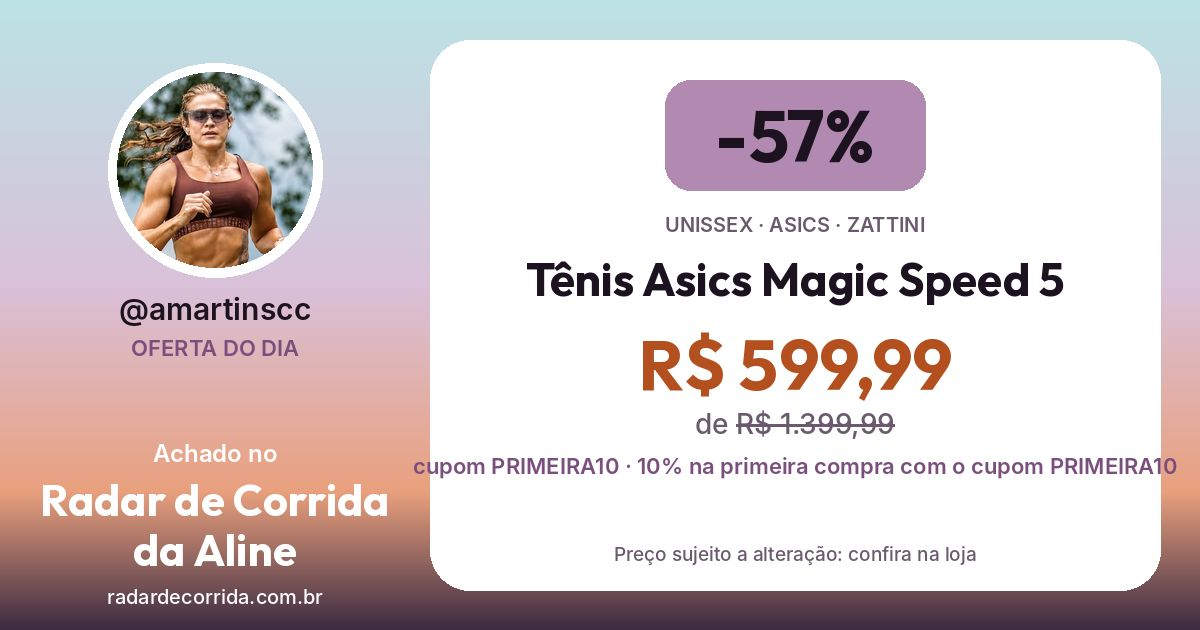
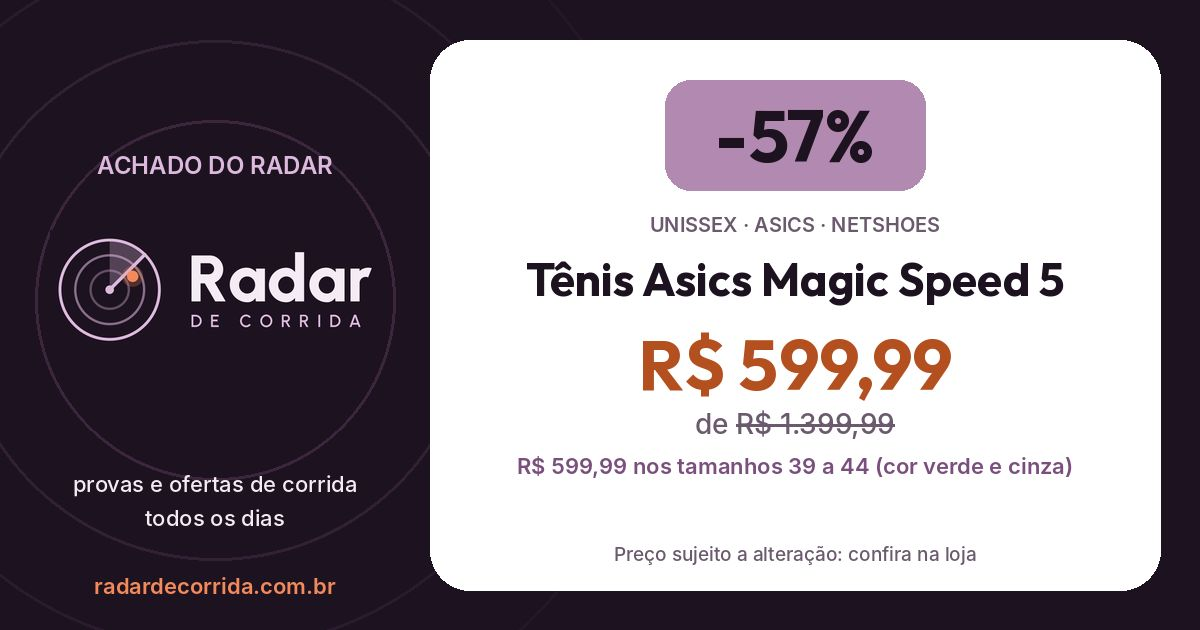
Atualiza achados 2026-11-27 13h47 + achado relâmpago Asics Magic Speed 5

diff --git a/tenis/asics-tenis-asics-magic-speed-5-unissex/index.html b/tenis/asics-tenis-asics-magic-speed-5-unissex/index.html
@@ -4,14 +4,14 @@
 <meta charset="utf-8">
 <meta name="viewport" content="width=device-width,initial-scale=1">
 <title>Tênis Asics Magic Speed 5 por R$ 599,99 (-57%) · Radar de Corrida</title>
-<meta name="description" content="Unissex · de R$ 1.399,99 por R$ 599,99 na Zattini (cupom PRIMEIRA10 · 10% na primeira compra com o cupom PRIMEIRA10). Achado no Radar de Corrida da Aline.">
+<meta name="description" content="Unissex · de R$ 1.399,99 por R$ 599,99 na Netshoes (R$ 599,99 nos tamanhos 39 a 44 (cor verde e cinza)). Achado no Radar de Corrida da Aline.">
 <meta name="robots" content="noindex,follow">
 <link rel="canonical" href="https://radardecorrida.com.br/tenis/asics-tenis-asics-magic-speed-5-unissex/">
 <meta property="og:type" content="website">
 <meta property="og:locale" content="pt_BR">
 <meta property="og:site_name" content="Radar de Corrida da Aline">
 <meta property="og:title" content="Tênis Asics Magic Speed 5 por R$ 599,99 (-57%)">
-<meta property="og:description" content="Unissex · de R$ 1.399,99 por R$ 599,99 na Zattini (cupom PRIMEIRA10 · 10% na primeira compra com o cupom PRIMEIRA10). Achado no Radar de Corrida da Aline.">
+<meta property="og:description" content="Unissex · de R$ 1.399,99 por R$ 599,99 na Netshoes (R$ 599,99 nos tamanhos 39 a 44 (cor verde e cinza)). Achado no Radar de Corrida da Aline.">
 <meta property="og:url" content="https://radardecorrida.com.br/tenis/asics-tenis-asics-magic-speed-5-unissex/">
 <meta property="og:image" content="https://radardecorrida.com.br/og/tenis-asics-tenis-asics-magic-speed-5-unissex.jpg">
 <meta property="og:image:secure_url" content="https://radardecorrida.com.br/og/tenis-asics-tenis-asics-magic-speed-5-unissex.jpg">
@@ -24,16 +24,16 @@
 <link rel="icon" type="image/png" href="/favicon.png">
 <style>*{box-sizing:border-box}body{margin:0;font-family:"Plus Jakarta Sans",system-ui,-apple-system,"Segoe UI",sans-serif;background:#F6F0F6 linear-gradient(180deg,#BBE3E5 0,#D9C1D9 360px,#F6F0F6 720px) no-repeat;color:#1D1220;padding:24px 16px 40px}.c{max-width:560px;margin:0 auto;display:flex;flex-direction:column;gap:14px}img{width:100%;height:auto;border-radius:18px;display:block}h1{font:800 28px/1.1 system-ui,sans-serif;margin:0}p{margin:0;color:#6B5A6E}a.b{display:block;text-align:center;padding:13px 18px;border-radius:999px;text-decoration:none;font-weight:700}a.p{background:#B28AB1;color:#1D1220}a.s{background:#fff;color:#7A4E7D;border:1.5px solid #B28AB1}.x{text-align:center;font-size:14px}.x a{color:#7A4E7D}.n{background:#FFF0DC;color:#9A5B00;padding:10px 14px;border-radius:14px;font-weight:600}</style>
 
-
+<script>if(/[?&]c=1(&|$)/.test(location.search))location.replace("/"+location.search+"#tenis=asics-tenis-asics-magic-speed-5-unissex");</script>
 </head>
 <body>
 <main class="c">
-<p class="n">Essa oferta não está mais no radar. Veja as ofertas de hoje.</p>
+
 <img src="/og/tenis-asics-tenis-asics-magic-speed-5-unissex.jpg" alt="Tênis Asics Magic Speed 5 por R$ 599,99 (-57%)" width="1200" height="630">
 <h1>Tênis Asics Magic Speed 5 por R$ 599,99 (-57%)</h1>
-<p>Unissex · de R$ 1.399,99 por R$ 599,99 na Zattini (cupom PRIMEIRA10 · 10% na primeira compra com o cupom PRIMEIRA10). Achado no Radar de Corrida da Aline.</p>
-<a class="b p" href="/#tenis">Ver no Radar de Corrida da Aline</a>
-
+<p>Unissex · de R$ 1.399,99 por R$ 599,99 na Netshoes (R$ 599,99 nos tamanhos 39 a 44 (cor verde e cinza)). Achado no Radar de Corrida da Aline.</p>
+<a class="b p" href="/#tenis=asics-tenis-asics-magic-speed-5-unissex">Ver no Radar de Corrida da Aline</a>
+<a class="b s" href="https://click.linksynergy.com/deeplink?id=7KhHq5G3aIo&amp;mid=43984&amp;murl=https%3A%2F%2Fwww.netshoes.com.br%2Fp%2Ftenis-asics-magic-speed-5-SG4-01QO-430" target="_blank" rel="noopener">Ver na loja</a>
 <p class="x"><a href="/calculadora-de-pace/">Calcule seu pace e a previsão de tempo para a prova</a></p>
 </main>
 </body>

diff --git a/index.html b/index.html
@@ -1003,9 +1003,6 @@ section h2{font:800 22px/1 var(--display);margin:8px 0 10px}
    "link": "https://www.decathlon.com.br/tenis-adulto-de-corrida-corre-turbo-preto-9026071-olympikus/p",
    "categoria": "Tênis",
    "genero": "Unissex",
-   "cupom": "CORRE15",
-   "preco_final": 424.99,
-   "condicao": "15% off em Olympikus com o cupom CORRE15",
    "foto": "https://decathlonstore.vtexassets.com/arquivos/ids/178847764/tenis-adulto-de-corrida-corre-turbo-olympikus-preto.jpg",
    "modalidade": "Corrida"
   },
@@ -3041,9 +3038,6 @@ section h2{font:800 22px/1 var(--display);margin:8px 0 10px}
    "link": "https://www.decathlon.com.br/tenis-feminino-de-corrida-sonicblast-cinza-9016059-asics/p",
    "categoria": "Tênis",
    "genero": "Feminino",
-   "cupom": "10OFFNOPIX",
-   "preco_final": 539.99,
-   "condicao": "10% off pagando no Pix com o cupom 10OFFNOPIX",
    "foto": "https://decathlonpro.vteximg.com.br/arquivos/ids/174209820/tenis-feminino-corrida-sonicblast-asics---preto---35-br1.jpg",
    "black": true,
    "modalidade": "Corrida"
@@ -3057,9 +3051,6 @@ section h2{font:800 22px/1 var(--display);margin:8px 0 10px}
    "link": "https://www.decathlon.com.br/tenis-asics-sonicblast---masculino---verde-preto-2145997394/p",
    "categoria": "Tênis",
    "genero": "Masculino",
-   "cupom": "10OFFNOPIX",
-   "preco_final": 539.99,
-   "condicao": "10% off pagando no Pix com o cupom 10OFFNOPIX",
    "foto": "https://decathlonpro.vteximg.com.br/arquivos/ids/180731203/17872335343639.jpg",
    "black": true,
    "modalidade": "Corrida"
@@ -3174,6 +3165,19 @@ section h2{font:800 22px/1 var(--display);margin:8px 0 10px}
    ]
   },
   {
+   "loja": "Netshoes",
+   "nome": "Tênis Asics Magic Speed 5",
+   "marca": "Asics",
+   "preco": 599.99,
+   "de": 1399.99,
+   "link": "https://www.netshoes.com.br/p/tenis-asics-magic-speed-5-SG4-01QO-430",
+   "categoria": "Tênis",
+   "genero": "Unissex",
+   "condicao": "R$ 599,99 nos tamanhos 39 a 44 (cor verde e cinza)",
+   "foto": "https://static.netshoes.com.br/produtos/tenis-asics-magic-speed-5/30/SG4-01QO-430/SG4-01QO-430_detalhe1.jpg",
+   "modalidade": "Corrida"
+  },
+  {
    "loja": "Amazon",
    "nome": "Tênis Olympikus Corre Grafeno 3",
    "marca": "Olympikus",
@@ -3212,19 +3216,6 @@ section h2{font:800 22px/1 var(--display);margin:8px 0 10px}
    "cupom": "10OFFNOPIX",
    "condicao": "10% off pagando no Pix com o cupom 10OFFNOPIX",
    "preco_final": 539.99
-  },
-  {
-   "loja": "Decathlon",
-   "nome": "Tênis New Balance FuelCell SuperComp Elite V4 Masculino",
-   "marca": "New Balance",
-   "preco": 799.99,
-   "de": 1999.99,
-   "link": "https://www.decathlon.com.br/tenis-masculino-de-corrida-supercomp-elite-v4-bege-8682710-new-balance/p",
-   "categoria": "Tênis",
-   "genero": "Masculino",
-   "foto": "https://decathlonstore.vtexassets.com/arquivos/ids/166091617/-tn-nb-supercomp-elite-v4-uk-11---eu-46-bege-39-br1.jpg",
-   "black": true,
-   "modalidade": "Corrida"
   },
   {
    "loja": "Decathlon",
@@ -17781,7 +17772,7 @@ section h2{font:800 22px/1 var(--display);margin:8px 0 10px}
    }
   ]
  },
- "ofertas_atualizado": "2026-11-27T08:52:33-03:00",
+ "ofertas_atualizado": "2026-11-27T13:43:02-03:00",
  "treino_em_breve": true,
  "destaques": [
   {

diff --git a/tenis/asics-tenis-asics-sonicblast-masculino-masculino/index.html b/tenis/asics-tenis-asics-sonicblast-masculino-masculino/index.html
@@ -4,14 +4,14 @@
 <meta charset="utf-8">
 <meta name="viewport" content="width=device-width,initial-scale=1">
 <title>Tênis Asics Sonicblast Masculino por R$ 599,99 (-60%) · Radar de Corrida</title>
-<meta name="description" content="Masculino · de R$ 1.499,99 por R$ 599,99 na Decathlon (cupom 10OFFNOPIX · 10% off pagando no Pix com o cupom 10OFFNOPIX). Achado no Radar de Corrida da Aline.">
+<meta name="description" content="Masculino · de R$ 1.499,99 por R$ 599,99 na Decathlon. Achado no Radar de Corrida da Aline.">
 <meta name="robots" content="noindex,follow">
 <link rel="canonical" href="https://radardecorrida.com.br/tenis/asics-tenis-asics-sonicblast-masculino-masculino/">
 <meta property="og:type" content="website">
 <meta property="og:locale" content="pt_BR">
 <meta property="og:site_name" content="Radar de Corrida da Aline">
 <meta property="og:title" content="Tênis Asics Sonicblast Masculino por R$ 599,99 (-60%)">
-<meta property="og:description" content="Masculino · de R$ 1.499,99 por R$ 599,99 na Decathlon (cupom 10OFFNOPIX · 10% off pagando no Pix com o cupom 10OFFNOPIX). Achado no Radar de Corrida da Aline.">
+<meta property="og:description" content="Masculino · de R$ 1.499,99 por R$ 599,99 na Decathlon. Achado no Radar de Corrida da Aline.">
 <meta property="og:url" content="https://radardecorrida.com.br/tenis/asics-tenis-asics-sonicblast-masculino-masculino/">
 <meta property="og:image" content="https://radardecorrida.com.br/og/tenis-asics-tenis-asics-sonicblast-masculino-masculino.jpg">
 <meta property="og:image:secure_url" content="https://radardecorrida.com.br/og/tenis-asics-tenis-asics-sonicblast-masculino-masculino.jpg">
@@ -31,7 +31,7 @@
 
 <img src="/og/tenis-asics-tenis-asics-sonicblast-masculino-masculino.jpg" alt="Tênis Asics Sonicblast Masculino por R$ 599,99 (-60%)" width="1200" height="630">
 <h1>Tênis Asics Sonicblast Masculino por R$ 599,99 (-60%)</h1>
-<p>Masculino · de R$ 1.499,99 por R$ 599,99 na Decathlon (cupom 10OFFNOPIX · 10% off pagando no Pix com o cupom 10OFFNOPIX). Achado no Radar de Corrida da Aline.</p>
+<p>Masculino · de R$ 1.499,99 por R$ 599,99 na Decathlon. Achado no Radar de Corrida da Aline.</p>
 <a class="b p" href="/#tenis=asics-tenis-asics-sonicblast-masculino-masculino">Ver no Radar de Corrida da Aline</a>
 <a class="b s" href="https://www.awin1.com/cread.php?awinmid=19296&amp;awinaffid=3132864&amp;ued=https%3A%2F%2Fwww.decathlon.com.br%2Ftenis-asics-sonicblast---masculino---verde-preto-2145997394%2Fp&amp;platform=ma&amp;clickref=pagina-produto&amp;clickref2=produto" target="_blank" rel="noopener">Ver na loja</a>
 <p class="x"><a href="/calculadora-de-pace/">Calcule seu pace e a previsão de tempo para a prova</a></p>

diff --git a/tenis/asics-tenis-asics-sonicblast-feminino-feminino/index.html b/tenis/asics-tenis-asics-sonicblast-feminino-feminino/index.html
@@ -4,14 +4,14 @@
 <meta charset="utf-8">
 <meta name="viewport" content="width=device-width,initial-scale=1">
 <title>Tênis Asics Sonicblast Feminino por R$ 599,99 (-60%) · Radar de Corrida</title>
-<meta name="description" content="Feminino · de R$ 1.499,99 por R$ 599,99 na Decathlon (cupom 10OFFNOPIX · 10% off pagando no Pix com o cupom 10OFFNOPIX). Achado no Radar de Corrida da Aline.">
+<meta name="description" content="Feminino · de R$ 1.499,99 por R$ 599,99 na Decathlon. Achado no Radar de Corrida da Aline.">
 <meta name="robots" content="noindex,follow">
 <link rel="canonical" href="https://radardecorrida.com.br/tenis/asics-tenis-asics-sonicblast-feminino-feminino/">
 <meta property="og:type" content="website">
 <meta property="og:locale" content="pt_BR">
 <meta property="og:site_name" content="Radar de Corrida da Aline">
 <meta property="og:title" content="Tênis Asics Sonicblast Feminino por R$ 599,99 (-60%)">
-<meta property="og:description" content="Feminino · de R$ 1.499,99 por R$ 599,99 na Decathlon (cupom 10OFFNOPIX · 10% off pagando no Pix com o cupom 10OFFNOPIX). Achado no Radar de Corrida da Aline.">
+<meta property="og:description" content="Feminino · de R$ 1.499,99 por R$ 599,99 na Decathlon. Achado no Radar de Corrida da Aline.">
 <meta property="og:url" content="https://radardecorrida.com.br/tenis/asics-tenis-asics-sonicblast-feminino-feminino/">
 <meta property="og:image" content="https://radardecorrida.com.br/og/tenis-asics-tenis-asics-sonicblast-feminino-feminino.jpg">
 <meta property="og:image:secure_url" content="https://radardecorrida.com.br/og/tenis-asics-tenis-asics-sonicblast-feminino-feminino.jpg">
@@ -31,7 +31,7 @@
 
 <img src="/og/tenis-asics-tenis-asics-sonicblast-feminino-feminino.jpg" alt="Tênis Asics Sonicblast Feminino por R$ 599,99 (-60%)" width="1200" height="630">
 <h1>Tênis Asics Sonicblast Feminino por R$ 599,99 (-60%)</h1>
-<p>Feminino · de R$ 1.499,99 por R$ 599,99 na Decathlon (cupom 10OFFNOPIX · 10% off pagando no Pix com o cupom 10OFFNOPIX). Achado no Radar de Corrida da Aline.</p>
+<p>Feminino · de R$ 1.499,99 por R$ 599,99 na Decathlon. Achado no Radar de Corrida da Aline.</p>
 <a class="b p" href="/#tenis=asics-tenis-asics-sonicblast-feminino-feminino">Ver no Radar de Corrida da Aline</a>
 <a class="b s" href="https://www.awin1.com/cread.php?awinmid=19296&amp;awinaffid=3132864&amp;ued=https%3A%2F%2Fwww.decathlon.com.br%2Ftenis-feminino-de-corrida-sonicblast-cinza-9016059-asics%2Fp&amp;platform=ma&amp;clickref=pagina-produto&amp;clickref2=produto" target="_blank" rel="noopener">Ver na loja</a>
 <p class="x"><a href="/calculadora-de-pace/">Calcule seu pace e a previsão de tempo para a prova</a></p>

diff --git a/tenis/olympikus-tenis-olympikus-corre-turbo-unissex/index.html b/tenis/olympikus-tenis-olympikus-corre-turbo-unissex/index.html
@@ -4,14 +4,14 @@
 <meta charset="utf-8">
 <meta name="viewport" content="width=device-width,initial-scale=1">
 <title>Tênis Olympikus Corre Turbo por R$ 499,99 (-29%) · Radar de Corrida</title>
-<meta name="description" content="Unissex · de R$ 699,99 por R$ 499,99 na Decathlon (cupom CORRE15 · 15% off em Olympikus com o cupom CORRE15). Achado no Radar de Corrida da Aline.">
+<meta name="description" content="Unissex · de R$ 699,99 por R$ 499,99 na Decathlon. Achado no Radar de Corrida da Aline.">
 <meta name="robots" content="noindex,follow">
 <link rel="canonical" href="https://radardecorrida.com.br/tenis/olympikus-tenis-olympikus-corre-turbo-unissex/">
 <meta property="og:type" content="website">
 <meta property="og:locale" content="pt_BR">
 <meta property="og:site_name" content="Radar de Corrida da Aline">
 <meta property="og:title" content="Tênis Olympikus Corre Turbo por R$ 499,99 (-29%)">
-<meta property="og:description" content="Unissex · de R$ 699,99 por R$ 499,99 na Decathlon (cupom CORRE15 · 15% off em Olympikus com o cupom CORRE15). Achado no Radar de Corrida da Aline.">
+<meta property="og:description" content="Unissex · de R$ 699,99 por R$ 499,99 na Decathlon. Achado no Radar de Corrida da Aline.">
 <meta property="og:url" content="https://radardecorrida.com.br/tenis/olympikus-tenis-olympikus-corre-turbo-unissex/">
 <meta property="og:image" content="https://radardecorrida.com.br/og/tenis-olympikus-tenis-olympikus-corre-turbo-unissex.jpg">
 <meta property="og:image:secure_url" content="https://radardecorrida.com.br/og/tenis-olympikus-tenis-olympikus-corre-turbo-unissex.jpg">
@@ -31,7 +31,7 @@
 
 <img src="/og/tenis-olympikus-tenis-olympikus-corre-turbo-unissex.jpg" alt="Tênis Olympikus Corre Turbo por R$ 499,99 (-29%)" width="1200" height="630">
 <h1>Tênis Olympikus Corre Turbo por R$ 499,99 (-29%)</h1>
-<p>Unissex · de R$ 699,99 por R$ 499,99 na Decathlon (cupom CORRE15 · 15% off em Olympikus com o cupom CORRE15). Achado no Radar de Corrida da Aline.</p>
+<p>Unissex · de R$ 699,99 por R$ 499,99 na Decathlon. Achado no Radar de Corrida da Aline.</p>
 <a class="b p" href="/#tenis=olympikus-tenis-olympikus-corre-turbo-unissex">Ver no Radar de Corrida da Aline</a>
 <a class="b s" href="https://www.awin1.com/cread.php?awinmid=19296&amp;awinaffid=3132864&amp;ued=https%3A%2F%2Fwww.decathlon.com.br%2Ftenis-adulto-de-corrida-corre-turbo-preto-9026071-olympikus%2Fp&amp;platform=ma&amp;clickref=pagina-produto&amp;clickref2=produto" target="_blank" rel="noopener">Ver na loja</a>
 <p class="x"><a href="/calculadora-de-pace/">Calcule seu pace e a previsão de tempo para a prova</a></p>

diff --git a/tenis/new-balance-tenis-new-balance-fuelcell-supercomp-elite-v4-masculino-ma/index.html b/tenis/new-balance-tenis-new-balance-fuelcell-supercomp-elite-v4-masculino-ma/index.html
@@ -24,16 +24,16 @@
 <link rel="icon" type="image/png" href="/favicon.png">
 <style>*{box-sizing:border-box}body{margin:0;font-family:"Plus Jakarta Sans",system-ui,-apple-system,"Segoe UI",sans-serif;background:#F6F0F6 linear-gradient(180deg,#BBE3E5 0,#D9C1D9 360px,#F6F0F6 720px) no-repeat;color:#1D1220;padding:24px 16px 40px}.c{max-width:560px;margin:0 auto;display:flex;flex-direction:column;gap:14px}img{width:100%;height:auto;border-radius:18px;display:block}h1{font:800 28px/1.1 system-ui,sans-serif;margin:0}p{margin:0;color:#6B5A6E}a.b{display:block;text-align:center;padding:13px 18px;border-radius:999px;text-decoration:none;font-weight:700}a.p{background:#B28AB1;color:#1D1220}a.s{background:#fff;color:#7A4E7D;border:1.5px solid #B28AB1}.x{text-align:center;font-size:14px}.x a{color:#7A4E7D}.n{background:#FFF0DC;color:#9A5B00;padding:10px 14px;border-radius:14px;font-weight:600}</style>
 
-<script>if(/[?&]c=1(&|$)/.test(location.search))location.replace("/"+location.search+"#tenis=new-balance-tenis-new-balance-fuelcell-supercomp-elite-v4-masculino-ma");</script>
+
 </head>
 <body>
 <main class="c">
-
+<p class="n">Essa oferta não está mais no radar. Veja as ofertas de hoje.</p>
 <img src="/og/tenis-new-balance-tenis-new-balance-fuelcell-supercomp-elite-v4-masculino-ma.jpg" alt="Tênis New Balance FuelCell SuperComp Elite V4 Masculino por R$ 799,99 (-60%)" width="1200" height="630">
 <h1>Tênis New Balance FuelCell SuperComp Elite V4 Masculino por R$ 799,99 (-60%)</h1>
 <p>Masculino · de R$ 1.999,99 por R$ 799,99 na Decathlon. Achado no Radar de Corrida da Aline.</p>
-<a class="b p" href="/#tenis=new-balance-tenis-new-balance-fuelcell-supercomp-elite-v4-masculino-ma">Ver no Radar de Corrida da Aline</a>
-<a class="b s" href="https://www.awin1.com/cread.php?awinmid=19296&amp;awinaffid=3132864&amp;ued=https%3A%2F%2Fwww.decathlon.com.br%2Ftenis-masculino-de-corrida-supercomp-elite-v4-bege-8682710-new-balance%2Fp&amp;platform=ma&amp;clickref=pagina-produto&amp;clickref2=produto" target="_blank" rel="noopener">Ver na loja</a>
+<a class="b p" href="/#tenis">Ver no Radar de Corrida da Aline</a>
+
 <p class="x"><a href="/calculadora-de-pace/">Calcule seu pace e a previsão de tempo para a prova</a></p>
 </main>
 </body>
